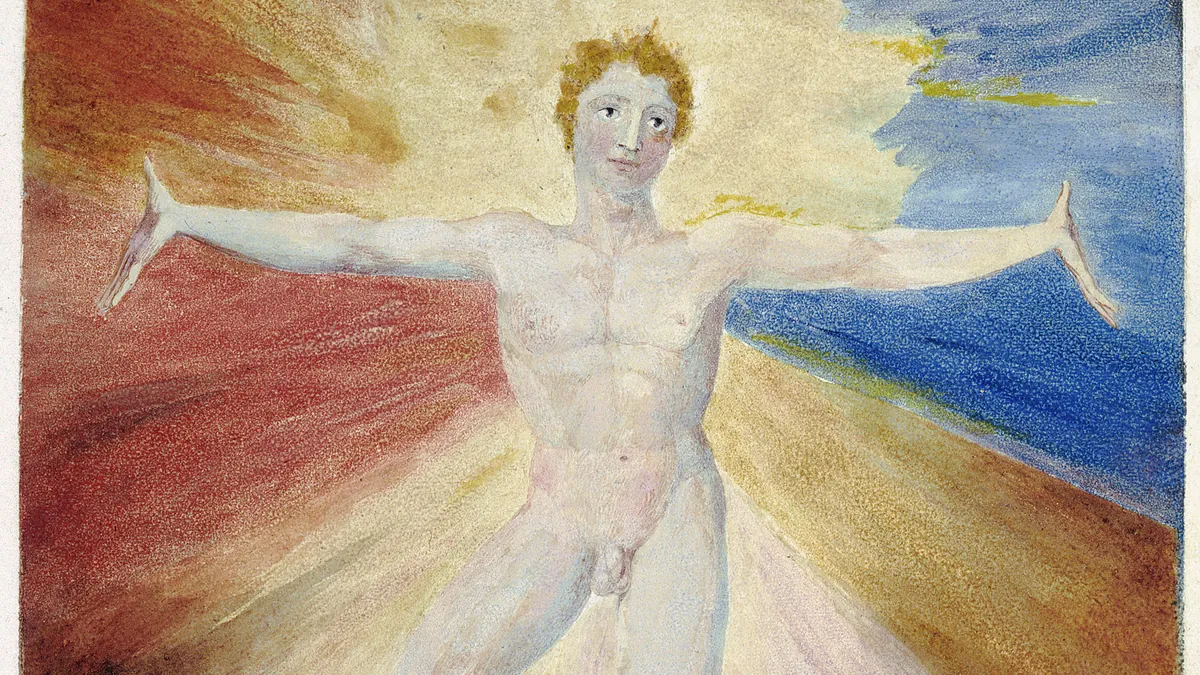
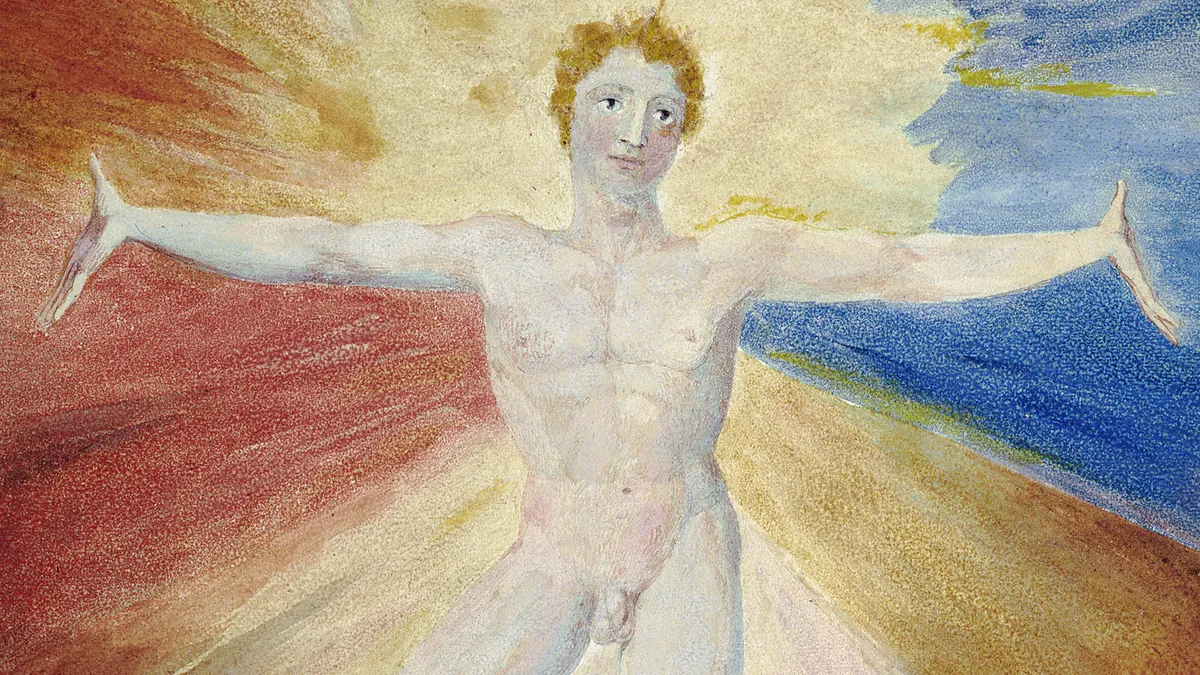
Bleed the Albion card art to the tile edges and overlay the hover detail
Re-crop the Vitals card inside the painting's paper border so colour
reaches every edge. Tile hover now raises the detail line over the lower
edge of the artwork on a dark wash instead of growing the caption, so the
grid stays static. Applies to both the landing and Personal tiles.

diff --git a/app/globals.css b/app/globals.css
@@ -10971,34 +10971,46 @@ button {
   }
 }
 
-/* Landing tiles: caption-rise hover — detail line reveals under the descriptor,
-   image quiets slightly. Hover-only enhancement; touch keeps the static caption. */
+/* Tile hover: the detail line rises from behind the caption over the lower
+   edge of the artwork on a dark wash. The card itself never changes size.
+   Hover-only enhancement; touch keeps the static caption. */
+.area-caption {
+  position: relative;
+}
+
 .area-caption__more {
-  overflow: hidden;
-  max-height: 0;
+  position: absolute;
+  right: 0;
+  bottom: 100%;
+  left: 0;
+  z-index: 1;
+  background: linear-gradient(
+    180deg,
+    rgba(13, 11, 9, 0) 0%,
+    rgba(13, 11, 9, 0.52) 34%,
+    rgba(13, 11, 9, 0.72) 100%
+  );
+  padding: 30px 18px 13px;
   opacity: 0;
+  transform: translateY(10px);
+  pointer-events: none;
   transition:
-    max-height 180ms ease-out,
-    opacity 180ms ease-out;
+    opacity 200ms ease-out,
+    transform 200ms ease-out;
 }
 
 .area-caption__more > p {
   margin: 0;
-  padding-top: 0;
-  color: #83868d;
-  font-size: 0.8rem;
-  transition: padding-top 180ms ease-out;
+  color: rgba(255, 255, 255, 0.94);
+  font-size: 0.82rem;
+  line-height: 1.42;
+  text-shadow: 0 1px 8px rgba(13, 11, 9, 0.4);
 }
 
 .area-card:hover .area-caption__more,
 .area-card:focus-visible .area-caption__more {
-  max-height: 3.4em;
   opacity: 1;
-}
-
-.area-card:hover .area-caption__more > p,
-.area-card:focus-visible .area-caption__more > p {
-  padding-top: 4px;
+  transform: translateY(0);
 }
 
 .area-art img {
@@ -11021,9 +11033,9 @@ button {
 
 @media (prefers-reduced-motion: reduce) {
   .area-caption__more,
-  .area-caption__more > p,
   .area-art img {
     transition: none;
+    transform: none;
   }
 }
 
